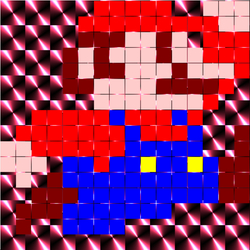
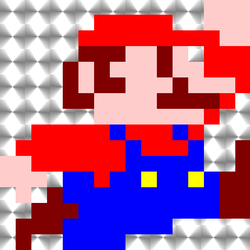
mario shader modify
shader source modify and thumbnail change

diff --git a/page/index.html b/page/index.html
@@ -63,10 +63,10 @@
 					</ul>
 				</div>
 				<div class="entry">
-					<h3>mario (windows only)</h3>
+					<h3>mario shader</h3>
 					<p><img id="image003" src="image/mario.jpg" width="250" height="250" alt=""></p>
 					<ul>
-						<li>size: 3087 bytes</li>
+						<li>size: 2895 bytes</li>
 						<li>source: <a href="http://goo.gl/Dcx4Im" target="_blank">preview</a></li>
 						<li>author: <a href="https://twitter.com/cx20" target="_blank">@cx20</a></li>
 					</ul>
@@ -294,8 +294,7 @@ void main(){
 uniform vec2 r;
 uniform float t;
 
-vec3 D[256];
-#define I(B,a,b,c,d,e,f,g,h,i,j,k,l,m,n,o,p) D[B]=a;D[B+1]=b;D[B+2]=c;D[B+3]=d;D[B+4]=e;D[B+5]=f;D[B+6]=g;D[B+7]=h;D[B+8]=i;D[B+9]=j;D[B+10]=k;D[B+11]=l;D[B+12]=m;D[B+13]=n;D[B+14]=o;D[B+15]=p;
+#define F(A,B,C,a,b,c,d,e,f,g,h,i,j,k,l,m,n,o,p)A=B==(C+0)?a:B==(C+1)?b:B==(C+2)?c:B==(C+3)?d:B==(C+4)?e:B==(C+5)?f:B==(C+6)?g:B==(C+7)?h:B==(C+8)?i:B==(C+9)?j:B==(C+10)?k:B==(C+11)?l:B==(C+12)?m:B==(C+13)?n:B==(C+14)?o:B==(C+15)?p:A
 
 #define V vec3(1.0,0.8,0.8)
 #define W vec3(0.5,0.0,0.0)
@@ -304,59 +303,40 @@ vec3 D[256];
 #define Z vec3(0.0,0.0,1.0)
 #define _ vec3(0.)
 
-void A()
-{
-	I(  0,_,_,_,_,_,_,_,_,_,_,_,_,_,V,V,V)
-	I( 16,_,_,_,_,_,_,X,X,X,X,X,_,_,V,V,V)
-	I( 32,_,_,_,_,_,X,X,X,X,X,X,X,X,X,V,V)
-	I( 48,_,_,_,_,_,W,W,W,V,V,W,V,_,X,X,X)
-	I( 64,_,_,_,_,W,V,W,V,V,V,W,V,V,X,X,X)
-	I( 80,_,_,_,_,W,V,W,W,V,V,V,W,V,V,V,X)
-	I( 96,_,_,_,_,W,W,V,V,V,V,W,W,W,W,X,_)
-	I(112,_,_,_,_,_,_,V,V,V,V,V,V,V,X,_,_)
-	I(128,_,_,X,X,X,X,X,Z,X,X,X,Z,X,_,_,_)
-	I(144,_,X,X,X,X,X,X,X,Z,X,X,X,Z,_,_,W)
-	I(160,V,V,X,X,X,X,X,X,Z,Z,Z,Z,Z,_,_,W)
-	I(176,V,V,V,_,Z,Z,X,Z,Z,Y,Z,Z,Y,Z,W,W)
-	I(192,_,V,_,W,Z,Z,Z,Z,Z,Z,Z,Z,Z,Z,W,W)
-	I(208,_,_,W,W,W,Z,Z,Z,Z,Z,Z,Z,Z,Z,W,W)
-	I(224,_,W,W,W,Z,Z,Z,Z,Z,Z,Z,_,_,_,_,_)
-	I(240,_,W,_,_,Z,Z,Z,Z,_,_,_,_,_,_,_,_)
-}
-
-vec3 R(vec2 p, float x ,float y, float w, float h, vec3 c0, vec3 c1)
-{
-	return (p.x > x && p.x < (x+w) && p.y > y && p.y < (y+h)) ? c1 : c0;
-}
-
 void main() {
-	A();
-
 	vec2 p = gl_FragCoord.xy/r.xy;
-	vec3 c;
-
-	for (int i = 0; i < 256; i++) 
-	{
-		float x = floor(mod(float(i),16.))/16.;
-		float y = 1.-floor(float(i)/16.)/16.;
-		c = R(p, x, y, 0.06, 0.06, c, D[i]);
-	}
-
+	vec3 m = vec3(0.0);
+	float x = floor(p.x * 16.0);
+	float y = floor((1.0 - p.y) * 16.0);
+	int i = int(x + y * 16.0);
+	
+	F(m,i,  0,_,_,_,_,_,_,_,_,_,_,_,_,_,V,V,V);
+	F(m,i, 16,_,_,_,_,_,_,X,X,X,X,X,_,_,V,V,V);
+	F(m,i, 32,_,_,_,_,_,X,X,X,X,X,X,X,X,X,V,V);
+	F(m,i, 48,_,_,_,_,_,W,W,W,V,V,W,V,_,X,X,X);
+	F(m,i, 64,_,_,_,_,W,V,W,V,V,V,W,V,V,X,X,X);
+	F(m,i, 80,_,_,_,_,W,V,W,W,V,V,V,W,V,V,V,X);
+	F(m,i, 96,_,_,_,_,W,W,V,V,V,V,W,W,W,W,X,_);
+	F(m,i,112,_,_,_,_,_,_,V,V,V,V,V,V,V,X,_,_);
+	F(m,i,128,_,_,X,X,X,X,X,Z,X,X,X,Z,X,_,_,_);
+	F(m,i,144,_,X,X,X,X,X,X,X,Z,X,X,X,Z,_,_,W);
+	F(m,i,160,V,V,X,X,X,X,X,X,Z,Z,Z,Z,Z,_,_,W);
+	F(m,i,176,V,V,V,_,Z,Z,X,Z,Z,Y,Z,Z,Y,Z,W,W);
+	F(m,i,192,_,V,_,W,Z,Z,Z,Z,Z,Z,Z,Z,Z,Z,W,W);
+	F(m,i,208,_,_,W,W,W,Z,Z,Z,Z,Z,Z,Z,Z,Z,W,W);
+	F(m,i,224,_,W,W,W,Z,Z,Z,Z,Z,Z,Z,_,_,_,_,_);
+	F(m,i,240,_,W,_,_,Z,Z,Z,Z,_,_,_,_,_,_,_,_);
+	
 	p = mod(p, 0.1) - 0.05;
-	float s_ = sin(t);
-	float c_ = cos(t);
-	p *= mat2(c_, s_, -s_, c_);
+	float s = sin(t);
+	float c = cos(t);
+	p *= mat2(c, s, -s, c);
 	float v = 0.1 / abs(p.y) * abs(p.x);
-	float r = v * abs(sin(t * 5.0) - 2.5);
-	float g = v * abs(sin(t * 4.0) - 1.5);
-	float b = v * abs(sin(t * 2.0) - 0.5);
-	if ( c.r < 0.1 && c.g < 0.1 && c.b < 0.1 )
-	{
-		gl_FragColor = vec4(r, g, b, 1.0);
-	}
-	else
-	{
-		gl_FragColor = vec4(c, 1.0);
+	float r = v * abs(sin(t * 5.0) - 2.5) + 0.5;
+	if (m.r < 0.1 && m.g < 0.1 && m.b < 0.1) {
+		gl_FragColor = vec4(vec3(r), 1.0);
+	} else {
+		gl_FragColor = vec4(m, 1.0);
 	}
 }</script>
 	<script id="004" type="x-shader/x-fragment">precision mediump float;

diff --git a/page/script.js b/page/script.js
@@ -27,7 +27,6 @@ window.onload = function(){
 	e = document.getElementById('targetSource');
 	run = false;
 	r = Math.floor(Math.random() * entryCount);
-	if(r === 3){r = 0;}
 	e.value = r;
 	shader(entrySource[r]);
 };
